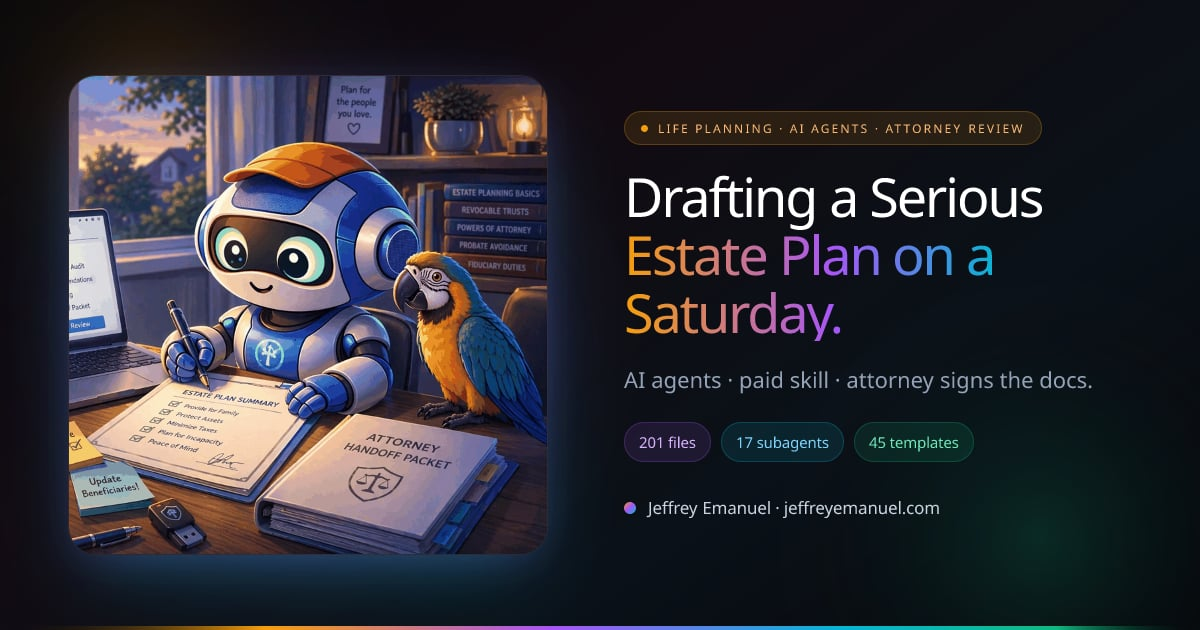
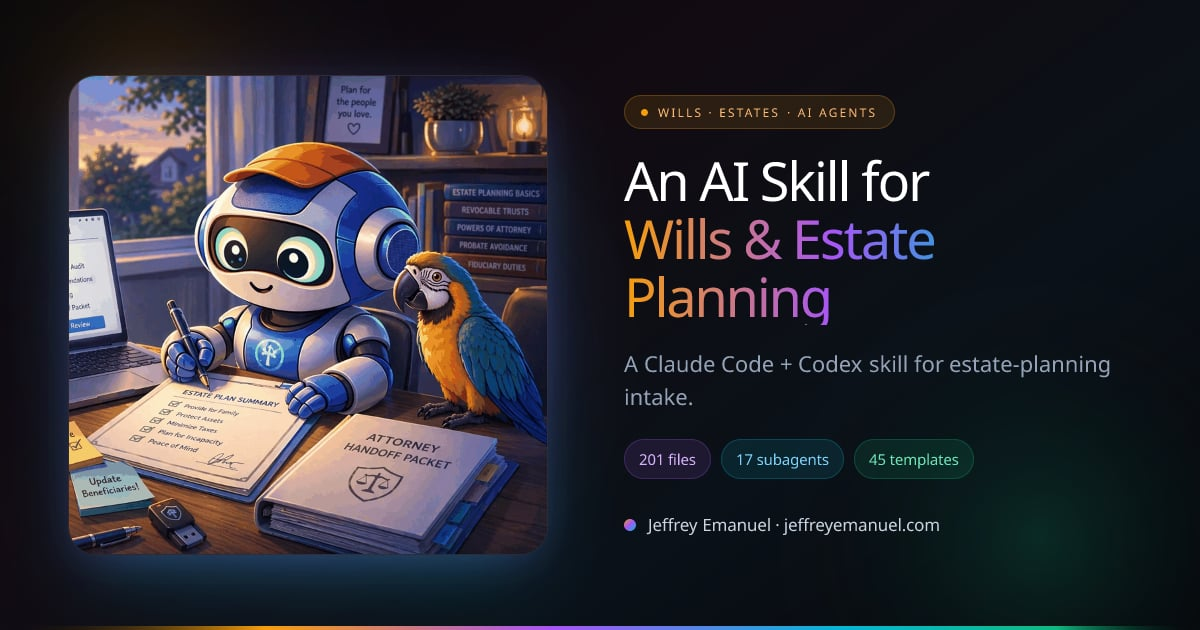
fix(wills-share): title and subtitle now match article, no attorney framing
The wills-and-estate-planning share cards on X, iMessage, Telegram, and
every other crawler were leading with "Drafting a Serious Estate Plan on
a Saturday." — a tagline, not the actual article title — and the
subtitle and tag pill both pushed an "attorney signs the docs" framing
that misrepresents the piece. The article is an AI skill for drafting
the intake; nothing in it requires an attorney, and the share image
shouldn't imply it does.

Copy changes (dynamic opengraph-image.tsx + twitter-image.tsx + the
OG_IMAGE_ALT const in page.tsx):

  pill:     "Life Planning · AI Agents · Attorney Review"
            -> "Wills · Estates · AI Agents"

  H1 ln 1:  "Drafting a Serious"
            -> "An AI Skill for"
  H1 ln 2:  "Estate Plan on a Saturday."
            -> "Wills & Estate Planning"
            (together: the exact article title)

  subtitle: "AI agents · paid skill · attorney signs the docs."
            -> "A Claude Code + Codex skill for estate-planning intake."

  alt:      "Drafting a Serious Estate Plan on a Saturday | …"
            -> "An AI Skill for Wills & Estate Planning | …"

Stat chips (201 files / 17 subagents / 45 templates) are untouched —
they're facts from the article, not copy.

Pass checked against /de-slopify: no emdashes, no "Here's why",
no "It's not X, it's Y", no forced enthusiasm, no hedges, no pseudo-
profound openers. Middle-dot separators (·) are kept as the visual
rhythm of the pill and subtitle, consistent with the existing card.
[…]

Changed region(s): [[0.5242, 0.1508, 0.925, 0.8444]]

diff --git a/app/writing/wills-and-estate-planning/opengraph-image.tsx b/app/writing/wills-and-estate-planning/opengraph-image.tsx
@@ -3,7 +3,7 @@ import { ImageResponse } from "next/og";
 export const runtime = "edge";
 
 export const alt =
-  "Drafting a Serious Estate Plan on a Saturday | Jeffrey Emanuel";
+  "An AI Skill for Wills & Estate Planning | Jeffrey Emanuel";
 export const size = {
   width: 1200,
   height: 630,
@@ -181,7 +181,7 @@ export default async function Image() {
                 display: "flex",
               }}
             >
-              Life Planning · AI Agents · Attorney Review
+              Wills · Estates · AI Agents
             </span>
           </div>
 
@@ -203,7 +203,7 @@ export default async function Image() {
                 display: "flex",
               }}
             >
-              Drafting a Serious
+              An AI Skill for
             </h1>
             <h1
               style={{
@@ -219,7 +219,7 @@ export default async function Image() {
                 display: "flex",
               }}
             >
-              Estate Plan on a Saturday.
+              Wills & Estate Planning
             </h1>
           </div>
 
@@ -235,7 +235,7 @@ export default async function Image() {
               maxWidth: 520,
             }}
           >
-            {"AI agents · paid skill · attorney signs the docs."}
+            {"A Claude Code + Codex skill for estate-planning intake."}
           </p>
 
           <div

diff --git a/app/writing/wills-and-estate-planning/twitter-image.tsx b/app/writing/wills-and-estate-planning/twitter-image.tsx
@@ -3,7 +3,7 @@ import { ImageResponse } from "next/og";
 export const runtime = "edge";
 
 export const alt =
-  "Drafting a Serious Estate Plan on a Saturday | Jeffrey Emanuel";
+  "An AI Skill for Wills & Estate Planning | Jeffrey Emanuel";
 export const size = {
   width: 1200,
   height: 600,
@@ -181,7 +181,7 @@ export default async function Image() {
                 display: "flex",
               }}
             >
-              Life Planning · AI Agents · Attorney Review
+              Wills · Estates · AI Agents
             </span>
           </div>
 
@@ -203,7 +203,7 @@ export default async function Image() {
                 display: "flex",
               }}
             >
-              Drafting a Serious
+              An AI Skill for
             </h1>
             <h1
               style={{
@@ -219,7 +219,7 @@ export default async function Image() {
                 display: "flex",
               }}
             >
-              Estate Plan on a Saturday.
+              Wills & Estate Planning
             </h1>
           </div>
 
@@ -235,7 +235,7 @@ export default async function Image() {
               maxWidth: 520,
             }}
           >
-            {"AI agents · paid skill · attorney signs the docs."}
+            {"A Claude Code + Codex skill for estate-planning intake."}
           </p>
 
           <div

diff --git a/app/writing/wills-and-estate-planning/page.tsx b/app/writing/wills-and-estate-planning/page.tsx
@@ -28,7 +28,7 @@ const DRAFT =
   )?.draft ?? false;
 
 const OG_IMAGE_ALT =
-  "Drafting a Serious Estate Plan on a Saturday | Jeffrey Emanuel";
+  "An AI Skill for Wills & Estate Planning | Jeffrey Emanuel";
 
 export const metadata: Metadata = {
   title: `${ARTICLE_TITLE} | Jeffrey Emanuel`,
